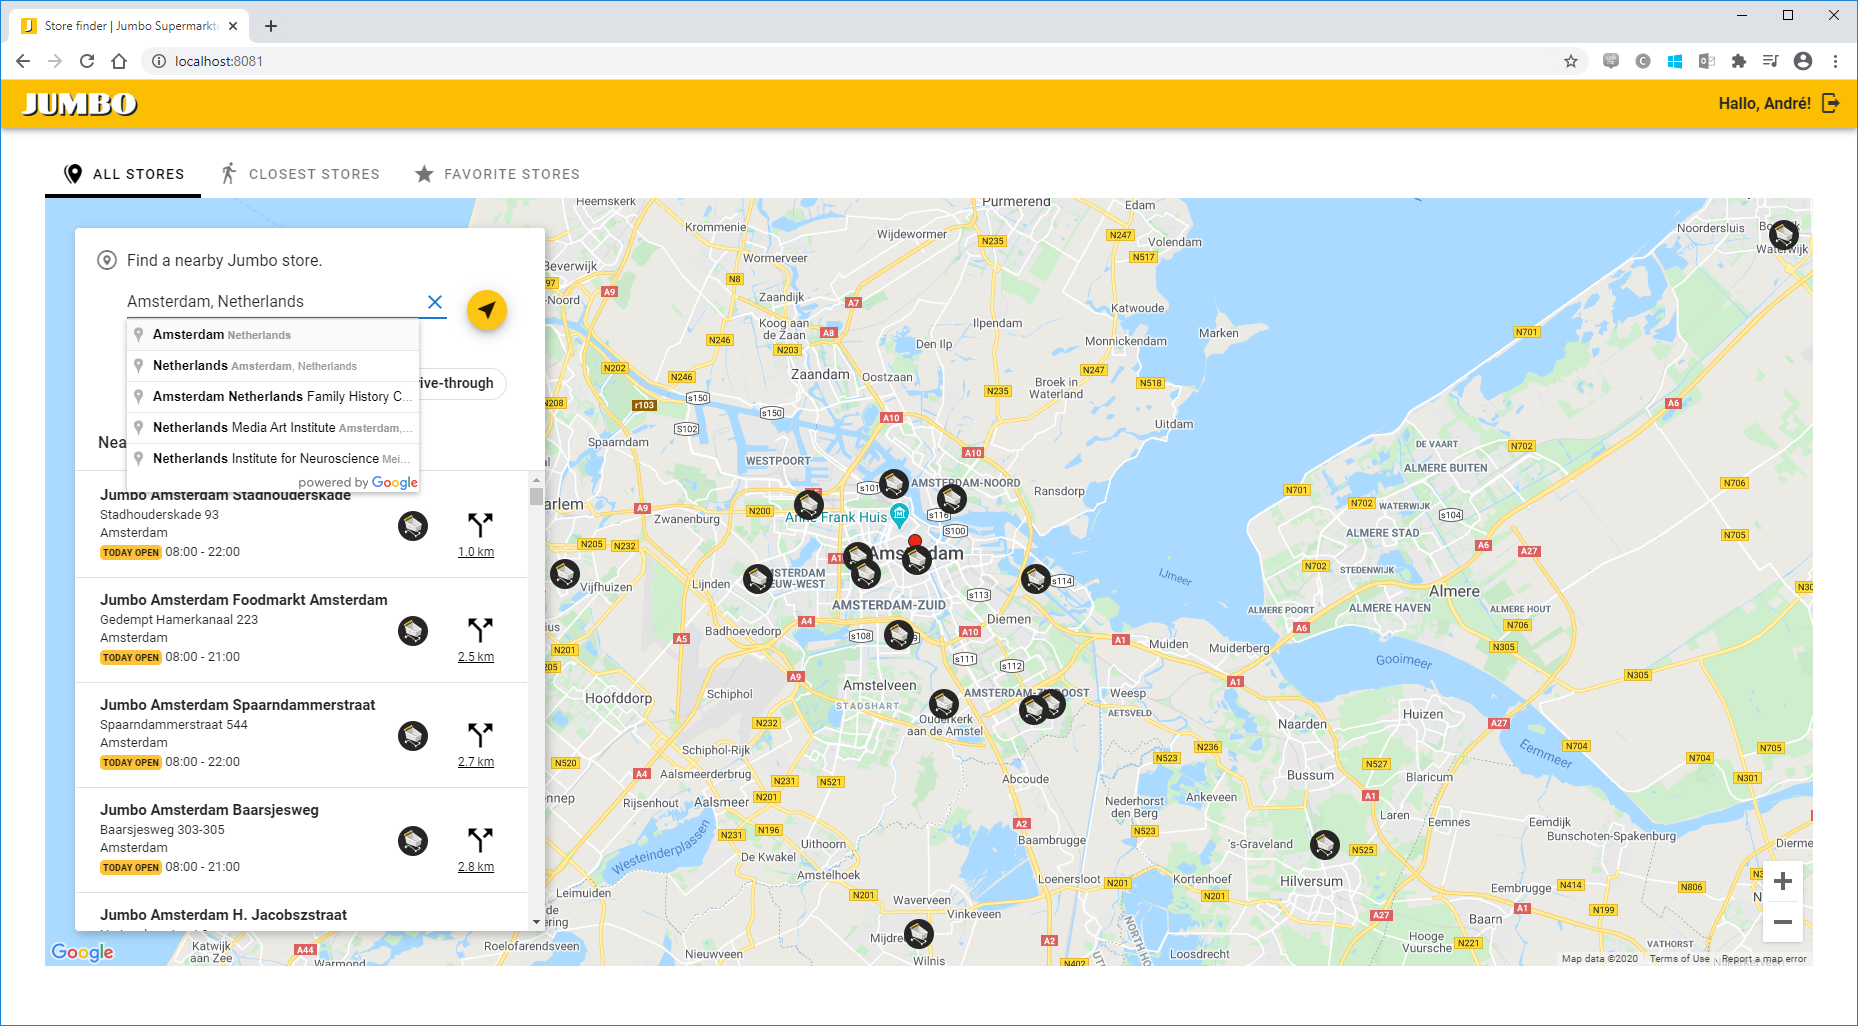
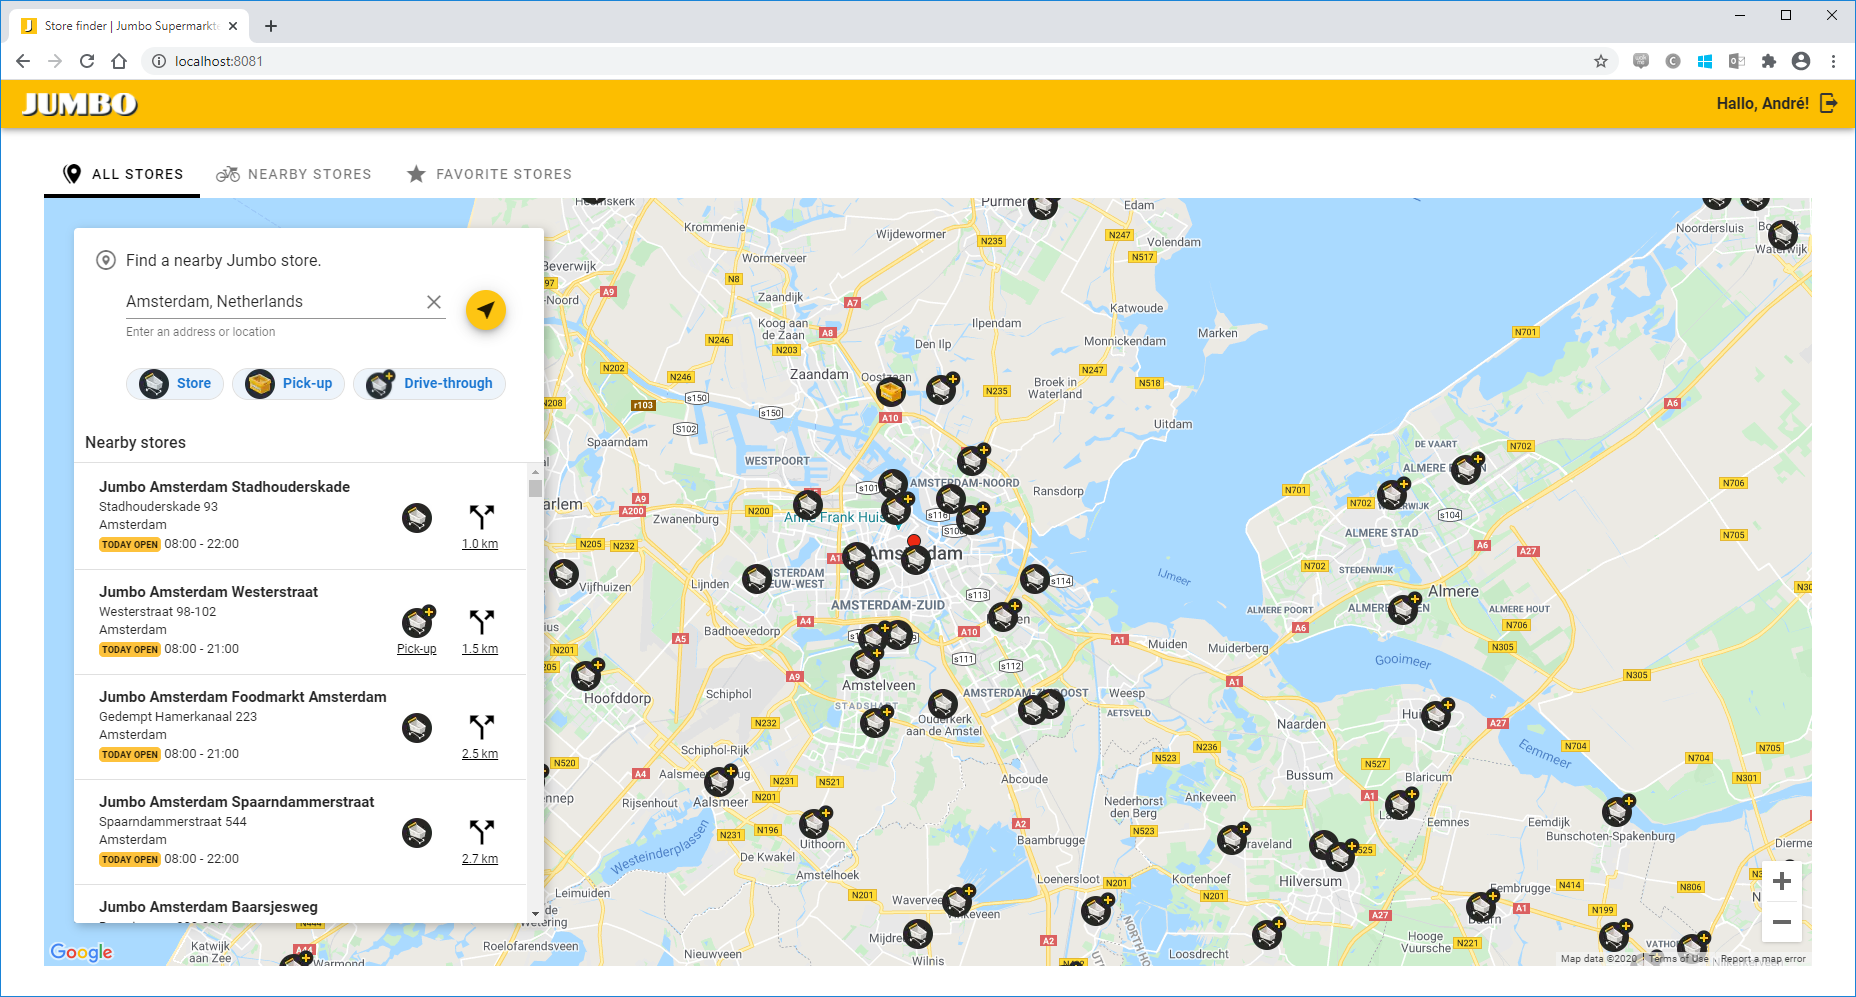
Modified nearby stores to accept a numeric parameter (5, 15, 25, 50)

Changed region(s): [[0.0, 0.0, 1.0, 0.995]]

diff --git a/finder-client/src/components/views/MapMainPage.vue b/finder-client/src/components/views/MapMainPage.vue
@@ -4,7 +4,6 @@
       <v-card-text class="mapCard">
         <MapStoreFilters
           :storeFilter="storeFilter"
-          :location="location"
           @setFilters="setFilters"
         />
         <div class="storeLocator" id="map"/>
@@ -15,7 +14,10 @@
           :address="address"
           :selectedStore="selectedStore"
           :loading="loading"
+          :nearbyStoresLimit="nearbyStoresLimit"
+          :storeFilter="storeFilter"
           @setStoreTypes="setStoreTypes"
+          @setStoresLimit="setStoresLimit"
           @setAddress="setAddress"
           @searchAddress="searchAddress"
           @setSelectedStore="setSelectedStore"
@@ -72,8 +74,10 @@ export default {
     markers: [], // map of markers
     searchMarker: {},
     address: "", // selected address
+    prevAddress: "", // selected address
     location: {},
     viewport: {},
+    nearbyStoresLimit: 5, // default number of closest stores
     storeFilter: 0, // search filters [all, 5 nearest and favorite]
     storeTypes: [0, 1, 2], // store types [store, pick-up point and drive through]
     foundStores: [], // list of queried stores
@@ -104,6 +108,12 @@ export default {
     // handle the MapStoreTypes click events
     setStoreTypes(types) {
       this.storeTypes = types;
+      this.queryStores();
+    },
+
+    // handle limit changes on the nearby store filter
+    setStoresLimit(limit) {
+      this.nearbyStoresLimit = limit;
       this.queryStores();
     },
 
@@ -140,6 +150,7 @@ export default {
         "address": this.address,
         "storeFilter": this.storeFilter,
         "Supermarkt": this.storeTypes.includes(0),
+        "limit": this.nearbyStoresLimit,
         "PuP": this.storeTypes.includes(1),
         "SupermarktPuP": this.storeTypes.includes(2)
       };
@@ -182,7 +193,7 @@ export default {
       // if additional search parameters are supplied, add them to the url
       if(searchParameters) {
         if(searchParameters.storeFilter == 1) {
-          url += "&limit=5";
+          url += `&limit=${searchParameters.limit}`;
         }
         if(favorites) {
           if(this.favoriteStores && this.favoriteStores.size > 0) {
@@ -215,7 +226,11 @@ export default {
     setupStores() {
       const map = this.gmap;
       map.clearOverlays();
-      if(this.location.lat) {
+
+      // if the address changed, drop a new search marker
+      if(this.location.lat && this.address != this.prevAddress) {
+        if(this.searchMarker.setMap) this.searchMarker.setMap(null);
+        this.prevAddress = this.address;
         this.searchMarker = new this.google.maps.Marker({ icon: this.searchIcon, animation: this.google.maps.Animation.DROP, position: this.location, map});
       }
 
@@ -239,7 +254,6 @@ export default {
           }
 
           // create a marker based on the store object
-          
           const marker = new this.google.maps.Marker({ ...store, map });
           this.markers[marker.markerId] = marker;
           marker.addListener(`click`, () => this.markerClickHandler(marker));
@@ -397,7 +411,6 @@ export default {
 
       // add a method that allows clearing the markers
       google.maps.Map.prototype.clearOverlays = () => {
-        if(this.searchMarker.setMap) this.searchMarker.setMap(null);
         for (var i = 0; i < this.markers.length; i++ ) {
           this.markers[i].setMap(null);
         }
@@ -407,11 +420,12 @@ export default {
       // get the favorites for the current user
       http.get(`store/favorites/?&userName=${this.$store.state.auth.user.email}`).then(({ data }) => {
         this.favoriteStores = new Set(data.map(fav => fav.storeId));
-        // query the initial stores, irrespective to their location, but do not display them yet
-        http.get("store/stores/").then(({ data }) => {
-          this.foundStores = data;
-          this.setupStores();
-        });
+      });
+
+      // query the initial stores, irrespective to their location, but do not display them yet
+      http.get("store/stores/").then(({ data }) => {
+        this.foundStores = data;
+        this.setupStores();
       });
 
       // store google map properties

diff --git a/finder-client/src/components/views/MapStoreSearchPanelBody.vue b/finder-client/src/components/views/MapStoreSearchPanelBody.vue
@@ -1,9 +1,17 @@
 <template>
   <div>
     <!-- Title of the store list area -->
-    <v-card-text id="searchBoxTitle" class="text--primary">
-        <p class="searchLabelTextBold">Nearby stores</p>
-    </v-card-text>
+    <v-layout row wrap>
+      <v-card-text id="searchBoxTitle" class="text--primary searchBoxTitle">
+          <p class="searchLabelTextBold">Nearby stores</p>
+          <v-select
+            class="nearbySelect"
+            v-if="isNearbyStores"
+            v-model="queryLimit"
+            :items="nearbyStores"
+          ></v-select>
+      </v-card-text>
+    </v-layout>
     <v-divider></v-divider>
     <ProgressBar 
         :loading="loading"
@@ -98,11 +106,14 @@
 import ProgressBar from ".././utilities/ProgressBar.vue";
 
 export default {
-    props: ["foundStores", "selectedStore","loading","favoriteStores"],
+    props: ["foundStores", "selectedStore","loading","favoriteStores","storeFilter","nearbyStoresLimit"],
     name: "MapStoreSearchPanelBody",
     components: {
       ProgressBar
     },
+    data: () => ({
+      nearbyStores: [5, 10, 25, 50]
+    }),
     computed: {
         currentStore: {
             get() {
@@ -112,9 +123,20 @@ export default {
                 this.$emit("setSelectedStore", newVal);
             } 
         },
+        queryLimit: {
+            get() {
+                return this.nearbyStoresLimit;
+            },
+            set(newVal) {
+                this.$emit("setStoresLimit", newVal);
+            } 
+        },
         isLoggedUser() {
             return this.$store.state.auth.user.role != "ROLE_GUEST";
         },
+        isNearbyStores() {
+          return this.storeFilter == 1;
+        }
     },
     methods: {
       isCollectionPoint(item) {

diff --git a/finder-client/src/components/views/MapStoreSearchPanel.vue b/finder-client/src/components/views/MapStoreSearchPanel.vue
@@ -18,8 +18,11 @@
         :foundStores="foundStores"
         :selectedStore="selectedStore"
         :loading="loading"
+        :nearbyStoresLimit="nearbyStoresLimit"
+        :storeFilter="storeFilter"
         @toggleFavorite="toggleFavorite"
         @setSelectedStore="setSelectedStore"
+        @setStoresLimit="setStoresLimit"
         />
     </v-card>
   </section>
@@ -30,7 +33,7 @@ import MapStoreSearchPanelHeader from "./MapStoreSearchPanelHeader";
 import MapStoreSearchPanelBody from "./MapStoreSearchPanelBody";
 
 export default {
-    props: ["address","foundStores","selectedStore","storeTypes","loading"],
+    props: ["address","foundStores","selectedStore","storeTypes","loading","storeFilter","nearbyStoresLimit"],
     name: "MapStoreSearchPanel",
     components: {
       MapStoreSearchPanelHeader,
@@ -48,6 +51,9 @@ export default {
         },
         setSelectedStore(item) {
           this.$emit("setSelectedStore", item);
+        },
+        setStoresLimit(item) {
+          this.$emit("setStoresLimit", item);
         },
         toggleFavorite(storeId) {
           this.$emit("toggleFavorite", storeId);

diff --git a/finder-client/src/components/views/MapStoreFilters.vue b/finder-client/src/components/views/MapStoreFilters.vue
@@ -8,9 +8,9 @@
                 <v-icon class="mr-2">mdi-map-marker-multiple</v-icon>
                 <div class="tabText">All stores</div>
             </v-tab>
-            <v-tab :disabled="invalidLocation">
-                <v-icon class="mr-2">mdi-walk</v-icon>
-                <div class="tabText">Closest stores</div>
+            <v-tab>
+                <v-icon class="mr-2">mdi-bicycle-basket</v-icon>
+                <div class="tabText">Nearby stores</div>
             </v-tab>
             <v-tab :disabled="isGuestUser">
                 <v-icon class="mr-2">mdi-star</v-icon>
@@ -24,7 +24,7 @@
 <script>
 
 export default {
-    props: ["storeFilter", "location"],
+    props: ["storeFilter"],
     name: "MapStoreFilters",
     computed: {
         stores: {
@@ -34,9 +34,6 @@ export default {
             set(newVal) {
                 this.$emit("setFilters", newVal);
             } 
-        },
-        invalidLocation() {
-            return !this.location.lat;
         },
         isGuestUser() {
             return this.$store.state.auth.user.role == "ROLE_GUEST";

diff --git a/finder-client/src/assets/styles/app.css b/finder-client/src/assets/styles/app.css
@@ -125,6 +125,7 @@ html {
 
 .searchBoxTitle {
     padding-bottom: 8px !important;
+    display: flex;
 }
 
 button.v-btn[disabled] {
@@ -427,6 +428,14 @@ button.v-btn[disabled] {
     text-shadow: rgba(0, 0, 0, 0.01) 0px 0px 1px;
     margin-bottom: 5px !important;
     margin-top: 20px;
+}
+
+.nearbySelect {
+    padding: 0px !important;
+    max-width: 50px !important;
+    margin-left: 15px !important;
+    margin-top: -5px !important;
+    margin-bottom: -30px !important;
 }
 
 .favorite-button {

diff --git a/store-service/src/main/java/com/jumbo/storeservice/controller/StoreController.java b/store-service/src/main/java/com/jumbo/storeservice/controller/StoreController.java
@@ -37,9 +37,9 @@ public class StoreController {
 	 * @return a list of all stores
 	 */
 	@GetMapping("/stores/")
-	public List<Store> findAllStores(@RequestParam(defaultValue = "SupermarktPuP,PuP,Supermarkt") List<String> storeTypes, final HttpServletResponse response) {
+	public List<Store> findAllStores(@RequestParam(defaultValue = "SupermarktPuP,PuP,Supermarkt") List<String> storeTypes, @RequestParam(defaultValue = "1000") Integer limit, final HttpServletResponse response) {
 		response.addHeader("Cache-Control", "max-age=3600, must-revalidate, no-transform"); // cache find all store results for an hour
-		return service.findAllStores(storeTypes);
+		return service.findAllStores(storeTypes, limit);
 	}
 	
 	/**

diff --git a/store-service/src/main/java/com/jumbo/storeservice/service/impl/StoreServiceImpl.java b/store-service/src/main/java/com/jumbo/storeservice/service/impl/StoreServiceImpl.java
@@ -34,9 +34,9 @@ public class StoreServiceImpl implements StoreService {
 	 * @return a list of all stores
 	 */
 	@Override
-	public List<Store> findAllStores(List<String> storeTypes) {
+	public List<Store> findAllStores(List<String> storeTypes, int limit) {
 		log.info("Find all stores called.");
-		List<Store> stores = repository.findByLocationTypeIn(storeTypes);
+		List<Store> stores = repository.findByLocationTypeIn(storeTypes, PageRequest.of(0, limit));
 		ArrayList<Store> result = Lists.newArrayList(stores);
 		log.info("Found " + result.size() + " store(s), returning.");
 		return result;

diff --git a/store-service/src/main/java/com/jumbo/storeservice/repository/StoreRepository.java b/store-service/src/main/java/com/jumbo/storeservice/repository/StoreRepository.java
@@ -24,7 +24,7 @@ public interface StoreRepository extends MongoRepository <Store, String> {
 	 * @param locationType SupermarktPuP, PuP or Supermarkt. 
 	 * @return A list of stores that match the provided location type
 	 */
-    List<Store> findByLocationTypeIn(List<String> locationType);
+    List<Store> findByLocationTypeIn(List<String> locationType, Pageable pageable);
     
     /**
 	 * Query all stores by locationType and sapStoreId, useful if the user has not yet provided a location but wants to query his favorite stores (and filter them by type, possibly)

diff --git a/store-service/src/main/java/com/jumbo/storeservice/service/StoreService.java b/store-service/src/main/java/com/jumbo/storeservice/service/StoreService.java
@@ -11,7 +11,7 @@ import com.jumbo.storeservice.entity.Store;
  */
 public interface StoreService {
 	
-	public List<Store> findAllStores(List<String> storeTypes);
+	public List<Store> findAllStores(List<String> storeTypes, int limit);
 	public List<Store> findNearestStores(Double lng, Double lat, List<String> storeTypes, int limit);
 	public List<Store> findFavoriteStores(List<String> storeIds, List<String> storeTypes);
 	public List<Store> findNearestFavoriteStores(Double lng, Double lat, List<String> storeIds, List<String> storeTypes);
